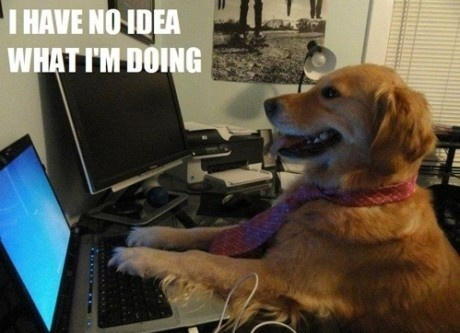
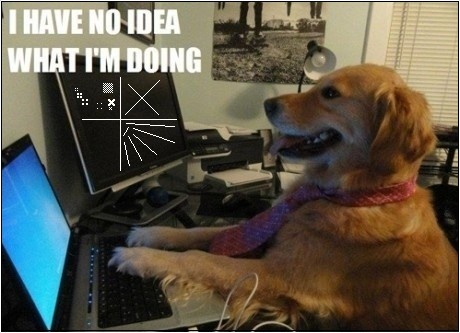
Scaling kinda working

diff --git a/src/ImageTools/Scale.cs b/src/ImageTools/Scale.cs
@@ -1,7 +1,6 @@
 using System;
 using System.Drawing;
 using System.Drawing.Imaging;
-using System.Runtime.InteropServices;
 
 namespace ImageTools
 {
@@ -13,13 +12,13 @@ namespace ImageTools
 		/// </summary>
 		public static unsafe Bitmap DisregardAspect(Bitmap src, int targetWidth, int targetHeight)
 		{
-			var stride = (src.Width * 32) / 8;
+			var stride = src.Width * 4;
 			var fmt = PixelFormat.Format32bppArgb;
 
 			var outx = new Bitmap(src.Width, src.Height, fmt);
 			var ro = new Rectangle(Point.Empty, outx.Size);
-			var dstData = outx.LockBits(ro, ImageLockMode.ReadOnly, fmt);
-
+			var dstData = outx.LockBits(ro, ImageLockMode.ReadWrite, fmt);
+			
 			Bitmap final;
 			try
 			{
@@ -37,12 +36,15 @@ namespace ImageTools
 				{
 					src.UnlockBits(srcData);
 				}
+
+				var restride = new Bitmap(targetWidth, targetHeight, stride, fmt, dstData.Scan0);
+				final = new Bitmap(restride);
 			}
 			finally
 			{
-				final = new Bitmap(targetWidth, targetHeight, stride, fmt, dstData.Scan0);
 				outx.UnlockBits(dstData);
 			}
+			outx.Dispose();
 			return final;
 		}
 
@@ -53,7 +55,8 @@ namespace ImageTools
 		{
 			for (int i = 0; i < componentCount; i++)
 			{
-				GeneralScale(src, dest, width, height, targetWidth, targetHeight, i, componentCount);
+				GeneralScale(src, dest, width, height, targetWidth, targetHeight, 
+					i, componentCount);
 			}
 		}
 
@@ -82,30 +85,34 @@ namespace ImageTools
 			}
 
 			if (SrcHeight > DstHeight && SrcWidth > DstWidth)
-			{ // down scaling
-				for (int x = 0; x < SrcWidth; x++)
+			{
+				// down scaling
+				for (int y = 0; y < SrcHeight - componentCount; y++)
+				{
+					RescaleFence_DOWN(Src, Dst,
+							(y * SrcWidth * componentCount) + componentIndex, // start at left of row
+							componentCount, // Move 1 pixel at a time
+							SrcWidth * componentCount, // source length
+
+							//(y * (DstWidth * componentCount)) + componentIndex, 
+							// ^^ start at left of row (in packed space)
+							//    it's important to note that the output bytes-per-row is
+							//    NOT the same as the input bytes-per-row
+							(y * SrcWidth * componentCount) + componentIndex, 
+							componentCount, // Move 1 column at a time (1 pixel)
+							DstWidth * componentCount); // dest length
+				}
+				for (int x = 0; x < DstWidth; x++)
 				{
 					var pixX = (x * componentCount) + componentIndex;
-					RescaleFence_DOWN(Src, Dst, // copy Src to dst, scaling vertically
+					RescaleFence_DOWN(Dst, Dst, // copy Src to dst, while scaling vertically
 							pixX, // start at top of column
-							SrcWidth * componentCount, // Move 1 row at a time source
+							SrcWidth * componentCount, // Move 1 row at a time through source
 							SrcHeight, // source length
 
 							pixX, // start at top of column
 							SrcWidth * componentCount, // Move 1 row at a time in dest (equally spaced to src)
-							DstHeight); // dest length
-				}
-				for (int y = 0; y < DstHeight; y++)
-				{
-					RescaleFence_DOWN(Dst, Dst, // copy Dst onto itself, scaling horizontally and packing rows together in memory
-							(y * (SrcWidth * componentCount)) + componentIndex, // start at left of row
-							componentCount, // Move 1 pixel at a time
-							SrcWidth * componentCount, // source length
-
-							//(y * (DstWidth * componentCount)) + componentIndex, // start at left of row (in packed space)
-							(y * (SrcWidth * componentCount)) + componentIndex, // start at left of row (unpacked for testing)
-							componentCount, // Move 1 column at a time (1 pixel)
-							DstWidth * componentCount); // dest length
+							DstHeight + componentCount); // dest length
 				}
 			}
 			else

diff --git a/src/ImageTools.Tests/DownscalingImages.cs b/src/ImageTools.Tests/DownscalingImages.cs
@@ -20,6 +20,30 @@ namespace ImageTools.Tests
 				targetHeight = bmp.Height - 10;
 				using (var bmp2 = Scale.DisregardAspect(bmp, targetWidth, targetHeight))
 				{
+					bmp2.SaveJpeg("./outputs/1_scaled_slight.jpg");
+				}
+			}
+
+			Assert.That(File.Exists("./outputs/1_scaled.jpg"));
+			using (var result = Load.FromFile("./outputs/1_scaled_slight.jpg"))
+			{
+				Assert.That(result.Width, Is.EqualTo(targetWidth));
+				Assert.That(result.Height, Is.EqualTo(targetHeight));
+			}
+			Console.WriteLine("Go check the build output and ensure that \"/outputs/1_scaled_slight.jpg\" looks ok");
+		}
+
+		[Test]
+		public void nearly_50_downscale()
+		{
+			int targetWidth;
+			int targetHeight;
+			using (var bmp = Load.FromFile("./inputs/1.jpg"))
+			{
+				targetWidth = (bmp.Width / 2) + 15;
+				targetHeight = (bmp.Height / 2) + 15;
+				using (var bmp2 = Scale.DisregardAspect(bmp, targetWidth, targetHeight))
+				{
 					bmp2.SaveJpeg("./outputs/1_scaled.jpg");
 				}
 			}
